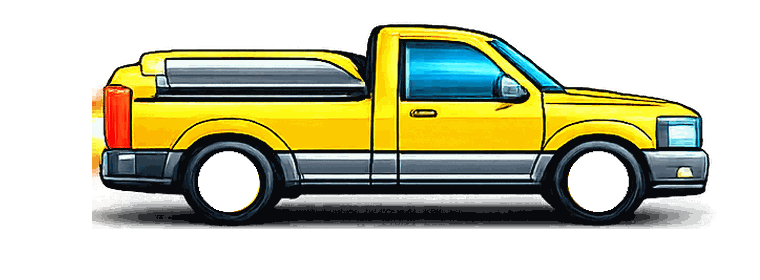
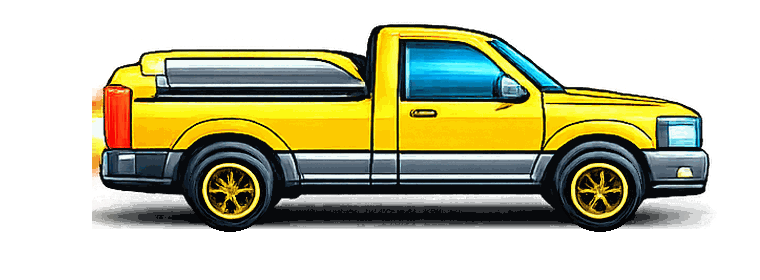
Add files via upload

Changed region(s): [[0.7263, 0.5143, 0.8474, 0.8286], [0.2421, 0.5429, 0.3632, 0.8286]]

diff --git a/boonjump/index.html b/boonjump/index.html
@@ -4,10 +4,10 @@
   <meta charset="utf-8">
   <meta name="viewport" content="width=device-width,initial-scale=1,viewport-fit=cover,maximum-scale=1,user-scalable=no">
   <meta name="theme-color" content="#071222">
-  <meta name="description" content="ASOBooNのミニゲーム ブーンジャンプ Ver.2.1.2">
+  <meta name="description" content="ASOBooNのミニゲーム ブーンジャンプ Ver.2.1.3">
   <meta name="robots" content="noindex,nofollow">
-  <meta name="boonjump-build" content="2026-08-06-ten-draw-tach-v3">
-  <title>ブーンジャンプ Ver.2.1.2｜ASOBooN</title>
+  <meta name="boonjump-build" content="2026-08-06-wheel-tach-secret-v4">
+  <title>ブーンジャンプ Ver.2.1.3｜ASOBooN</title>
   <style>
 :root{
   --yellow:#ffd83d;--yellow-hi:#fff27a;--yellow-sh:#a96900;
@@ -40,7 +40,7 @@ main{position:relative;z-index:2;width:min(100%,760px);margin:0 auto;padding:8px
 .hero-card{text-align:center}.eyebrow{position:relative;margin:0 0 6px;color:var(--cyan);font-size:.73rem;font-weight:1000;letter-spacing:.08em}.hero-card h1{position:relative;margin:0;font-size:clamp(2.7rem,13vw,5rem);line-height:.82;letter-spacing:-.08em;text-shadow:0 6px 0 rgba(0,0,0,.24)}.hero-card h1 span{color:var(--yellow)}.lead{position:relative;margin:12px 0 15px;color:#e2e8f0;font-size:clamp(.91rem,3.7vw,1.08rem);font-weight:900;line-height:1.45}
 .current-car{position:relative;margin:0 0 14px;padding:9px 10px;display:grid;grid-template-columns:minmax(108px,42%) minmax(0,1fr);align-items:center;gap:9px;border:1px solid var(--line);border-radius:20px;background:rgba(255,255,255,.07);text-align:left}.current-car-copy small{display:block;color:var(--mute);font-size:.58rem;font-weight:1000}.current-car-copy strong{display:block;margin-top:2px;font-size:clamp(.86rem,3.3vw,1.06rem);line-height:1.15}.current-car-copy span{display:block;margin-top:4px;color:var(--dim);font-size:.67rem;font-weight:800;line-height:1.25}.current-car-copy em{display:inline-block;margin-top:5px;padding:3px 7px;border-radius:999px;background:rgba(255,216,61,.13);color:var(--yellow);font-size:.58rem;font-style:normal;font-weight:1000}
 .primary,.tap-button{position:relative;width:100%;min-height:62px;border:0;border-radius:19px;color:var(--ink);background:linear-gradient(180deg,var(--yellow-hi),var(--yellow));box-shadow:0 7px 0 var(--yellow-sh),0 13px 26px rgba(0,0,0,.28);font-weight:1000}.primary::after,.tap-button::after{content:"";position:absolute;inset:6px;border:2px solid rgba(255,255,255,.48);border-radius:14px;pointer-events:none}.primary:active,.tap-button:active{transform:translateY(4px);box-shadow:0 3px 0 var(--yellow-sh),0 8px 17px rgba(0,0,0,.25)}.primary.huge{min-height:68px;font-size:1.17rem}.secondary{min-height:48px;padding:8px;border:1px solid var(--line);border-radius:15px;color:#fff;background:rgba(255,255,255,.085);box-shadow:0 4px 0 rgba(0,0,0,.25);font-size:.77rem;font-weight:1000}.secondary:active{transform:translateY(2px);box-shadow:0 2px 0 rgba(0,0,0,.25)}
-.home-actions{position:relative;display:grid;gap:7px;margin-top:12px}.home-actions.four{grid-template-columns:repeat(4,1fr)}.home-stats{position:relative;display:grid;grid-template-columns:repeat(3,1fr);gap:7px;margin-top:13px}.home-stats div{padding:7px 3px;border-radius:13px;border:1px solid rgba(255,255,255,.09);background:rgba(255,255,255,.05)}.home-stats small{display:block;color:var(--mute);font-size:.53rem;font-weight:1000}.home-stats strong{display:block;margin-top:2px;font-size:.82rem}.privacy,.fineprint{position:relative;margin:11px 0 0;color:var(--mute);font-size:.62rem;font-weight:800;line-height:1.45}
+.home-actions{position:relative;display:grid;gap:7px;margin-top:12px}.home-actions.four{grid-template-columns:repeat(4,1fr)}.home-actions.three{grid-template-columns:repeat(3,1fr)}.home-stats{position:relative;display:grid;grid-template-columns:repeat(3,1fr);gap:7px;margin-top:13px}.home-stats div{padding:7px 3px;border-radius:13px;border:1px solid rgba(255,255,255,.09);background:rgba(255,255,255,.05)}.home-stats small{display:block;color:var(--mute);font-size:.53rem;font-weight:1000}.home-stats strong{display:block;margin-top:2px;font-size:.82rem}.privacy,.fineprint{position:relative;margin:11px 0 0;color:var(--mute);font-size:.62rem;font-weight:800;line-height:1.45}
 .panel-head{position:relative;display:flex;align-items:center;gap:10px;margin-bottom:13px}.panel-head .icon-button{flex:0 0 44px;width:44px;height:44px;border:1px solid var(--line);border-radius:14px;background:rgba(255,255,255,.08);color:#fff;font-size:1.55rem;font-weight:1000}.panel-head small{display:block;color:var(--cyan);font-size:.58rem;font-weight:1000;letter-spacing:.12em}.panel-head h2{margin:1px 0 0;font-size:1.28rem}
 /* Vehicle renderer */
 .vehicle-slot,.gacha-stage,.vehicle-runway,.result-vehicle{position:relative;min-height:92px;display:grid;place-items:center;overflow:hidden}.vehicle-slot{min-height:78px}.vehicle-runway{min-height:122px;border-radius:17px;background:linear-gradient(180deg,#67caff 0 60%,#74b85d 60% 69%,#465168 69% 100%)}.vehicle-runway::after{content:"";position:absolute;left:0;right:0;bottom:16%;height:5px;background:repeating-linear-gradient(90deg,transparent 0 22px,#fff 22px 48px,transparent 48px 72px);opacity:.9}.result-vehicle{min-height:105px}.vehicle{position:relative;width:min(100%,350px);height:110px;z-index:2;filter:drop-shadow(0 12px 9px rgba(0,0,0,.35));transform-origin:50% 78%}.vehicle.compact{height:82px;transform:scale(.9)}.vehicle img{position:absolute;inset:0;width:100%;height:100%;object-fit:contain;pointer-events:none}.vehicle .part-shadow{z-index:0}.vehicle .part-body{z-index:2}.vehicle .part-rear,.vehicle .part-front{z-index:3}.vehicle .part-rear,.vehicle .part-front{inset:auto;height:auto;transform:translate(-50%,-50%);filter:drop-shadow(0 3px 2px rgba(0,0,0,.28))}.vehicle .part-boost{z-index:1;opacity:0}.vehicle.boosting .part-boost{opacity:1;animation:flamePulse .12s ease-in-out infinite alternate}.vehicle.revving{animation:vehicleRev .18s ease-in-out infinite alternate}.vehicle.hit{animation:vehicleHit .28s cubic-bezier(.15,.8,.28,1)}
@@ -63,7 +63,7 @@ main{position:relative;z-index:2;width:min(100%,760px);margin:0 auto;padding:8px
 /* Effects and safety */
 .judge-burst{position:fixed;z-index:90;left:50%;top:48%;transform:translate(-50%,-50%) scale(.7);width:min(92vw,480px);pointer-events:none;text-align:center;opacity:0}.judge-burst small{display:block;color:#fff0a3;font-size:1rem;font-weight:1000}.judge-burst strong{display:block;font-size:clamp(2.4rem,12vw,5rem);line-height:.9;font-weight:1000;font-style:italic;text-shadow:0 5px 0 rgba(0,0,0,.28),0 0 28px rgba(255,216,61,.65)}.judge-burst.show{animation:judgeBurst .72s ease-out}.super-overlay{position:fixed;z-index:120;inset:0;display:grid;place-items:center;background:radial-gradient(circle,rgba(255,255,255,.97) 0 7%,rgba(255,234,104,.86) 8% 28%,rgba(255,121,0,.42) 29% 58%,rgba(7,18,34,.88) 78%);opacity:0;visibility:hidden;pointer-events:none}.super-overlay.show{visibility:visible;pointer-events:auto;animation:superFlash .64s ease-out}.super-overlay div{text-align:center;transform:rotate(-4deg)}.super-overlay small{display:block;color:#5b3300;font-size:.9rem;font-weight:1000}.super-overlay strong{display:block;color:#5b2500;font-size:clamp(2.8rem,14vw,5.7rem);line-height:.84;font-style:italic;text-shadow:0 3px #fff,0 8px 0 rgba(120,60,0,.25)}.input-shield{position:fixed;z-index:115;inset:0;display:none;pointer-events:auto;background:transparent}.input-shield.active{display:block}.trophy-toast{position:fixed;z-index:150;left:50%;top:max(12px,env(safe-area-inset-top));width:min(calc(100% - 24px),420px);padding:10px 12px;display:grid;grid-template-columns:42px 1fr;align-items:center;gap:9px;border:2px solid #fff;border-radius:17px;background:linear-gradient(135deg,#25165d,#8b55ff);box-shadow:0 15px 35px rgba(0,0,0,.4);transform:translate(-50%,-150%);transition:transform .35s ease;pointer-events:none}.trophy-toast.show{transform:translate(-50%,0)}.trophy-toast>span{font-size:1.7rem}.trophy-toast small{display:block;color:#eadfff;font-size:.53rem;font-weight:1000}.trophy-toast strong{display:block;font-size:.77rem}.orientation-note{display:none;position:fixed;z-index:200;inset:0;place-items:center;padding:25px;background:#071222;color:#fff;text-align:center;font-weight:1000}
 @keyframes vehicleRev{to{transform:translateY(2px) scale(1.015)}}@keyframes vehicleHit{35%{transform:translateY(5px) scale(.97)}100%{transform:none}}@keyframes flamePulse{to{transform:scaleX(1.13);filter:brightness(1.25)}}@keyframes gachaShake{25%{transform:translateX(-2px)}75%{transform:translateX(2px)}}@keyframes gachaSlide{from{transform:translateX(35px);opacity:.4}to{transform:none;opacity:1}}@keyframes spin{to{transform:rotate(1turn)}}@keyframes boostReady{to{transform:translateX(-50%) scale(1.035)}}@keyframes recordPop{from{transform:scale(.4) rotate(-5deg)}70%{transform:scale(1.15) rotate(2deg)}to{transform:none}}@keyframes judgeBurst{0%{opacity:0;transform:translate(-50%,-50%) scale(.5)}20%{opacity:1;transform:translate(-50%,-50%) scale(1.14)}75%{opacity:1;transform:translate(-50%,-50%) scale(1)}100%{opacity:0;transform:translate(-50%,-60%) scale(.94)}}@keyframes superFlash{0%{opacity:0}15%{opacity:1}76%{opacity:1}100%{opacity:0}}
-@media(max-width:360px){main{padding-inline:8px}.hero-card,.panel,.result-card{padding:14px}.home-actions.four{grid-template-columns:repeat(2,1fr)}.current-car{grid-template-columns:104px minmax(0,1fr)}.car-grid{gap:6px}.car-card{padding:6px}.vehicle{width:290px}.progress-step em{font-size:.43rem}.boost-button{width:82%}}
+@media(max-width:360px){main{padding-inline:8px}.hero-card,.panel,.result-card{padding:14px}.home-actions.four{grid-template-columns:repeat(2,1fr)}.home-actions.three{grid-template-columns:repeat(3,1fr)}.current-car{grid-template-columns:104px minmax(0,1fr)}.car-grid{gap:6px}.car-card{padding:6px}.vehicle{width:290px}.progress-step em{font-size:.43rem}.boost-button{width:82%}}
 @media(max-height:650px){.screen{align-items:start}.hero-card,.panel,.result-card{margin-top:2px}.hero-card h1{font-size:2.75rem}.lead{margin:7px 0}.current-car{margin-bottom:9px}.vehicle-slot{min-height:68px}.home-stats{margin-top:9px}.privacy{margin-top:7px}.vehicle-runway{min-height:100px}.tap-button{min-height:60px}.flight-screen canvas{height:calc(100dvh - 55px)}}
 @media(orientation:landscape) and (max-height:500px){.orientation-note{display:grid}}
 @media(prefers-reduced-motion:reduce){*,*::before,*::after{animation-duration:.01ms!important;animation-iteration-count:1!important;transition-duration:.01ms!important;scroll-behavior:auto!important}.vehicle.revving{animation:none}.boost-button.ready{animation:none}.super-overlay{background:rgba(7,18,34,.92)}}
@@ -73,7 +73,7 @@ main{position:relative;z-index:2;width:min(100%,760px);margin:0 auto;padding:8px
 
 /* V2.1 — three distinct actions and machine-specific handling */
 .ticket-pill{min-width:74px;padding:6px 8px;border:1px solid rgba(255,216,61,.35);border-radius:999px;background:rgba(255,216,61,.1);text-align:center}.ticket-pill small{display:block;color:#ffe98c;font-size:.5rem;font-weight:1000}.ticket-pill b{display:block;color:#fff;font-size:.8rem;font-variant-numeric:tabular-nums}.gacha-ticket-status{position:relative;margin:11px 0 0;padding:8px 10px;border:1px solid rgba(255,216,61,.35);border-radius:13px;background:rgba(255,216,61,.09);color:var(--yellow);font-size:.72rem;font-weight:1000}.secondary.no-ticket{opacity:.72;border-color:rgba(255,255,255,.09)}
-.rpm-meter,.turbo-meter{padding:9px 7px 4px}.tach-caption,.turbo-labels{display:flex;align-items:center;justify-content:space-between;color:var(--mute);font-size:.51rem;font-weight:1000}.tach-caption b,.turbo-labels b{color:#fff;font-size:.67rem}.tach-dial{position:relative;width:min(100%,282px);height:154px;margin:3px auto 0;overflow:hidden}.tach-arc{position:absolute;left:50%;bottom:-113px;width:246px;height:246px;transform:translateX(-50%);border:15px solid #26344b;border-radius:50%;box-shadow:inset 0 0 0 3px #101827,0 0 20px rgba(73,183,255,.12)}.tach-arc::before{content:"";position:absolute;inset:-15px;border-radius:50%;background:conic-gradient(from 220deg,transparent 0 7%,#49b7ff 7% 27%,#3ddc84 27% 33%,#ffd83d 33% 37%,#ff8a00 37% 40%,#ff4d4d 40% 43%,transparent 43% 100%);mask:radial-gradient(circle,transparent 0 42%,#000 43% 54%,transparent 55%);-webkit-mask:radial-gradient(circle,transparent 0 42%,#000 43% 54%,transparent 55%)}.tach-arc::after{content:"";position:absolute;inset:-9px;border-radius:50%;background:repeating-conic-gradient(from 198deg,rgba(255,255,255,.95) 0 1deg,transparent 1deg 4deg);mask:radial-gradient(circle,transparent 0 55%,#000 56% 61%,transparent 62%);-webkit-mask:radial-gradient(circle,transparent 0 55%,#000 56% 61%,transparent 62%);opacity:.8}.tach-scale span{position:absolute;z-index:3;left:50%;bottom:20px;width:18px;margin-left:-9px;color:#dce8f6;font-size:.55rem;font-weight:1000;text-align:center;transform-origin:9px 0;transform:rotate(calc(-72deg + var(--i)*16deg)) translateY(-89px) rotate(calc(72deg - var(--i)*16deg));text-shadow:0 2px 4px #000}.tach-unit-label{position:absolute;z-index:3;left:50%;bottom:39px;transform:translateX(-50%);color:#8ca1b8;font-size:.48rem;font-weight:1000;letter-spacing:.08em}.tach-redline{position:absolute;left:50%;bottom:18px;width:89px;height:4px;transform-origin:0 50%;transform:rotate(42deg);border-radius:999px;background:#ff544f;box-shadow:0 0 10px #ff4d4d}.tach-redline::after{content:"";position:absolute;right:-5px;top:-6px;width:15px;height:15px;border:3px solid #fff;border-radius:50%;background:#ff4d4d;box-shadow:0 0 15px #ff4d4d}.tach-redline span{position:absolute;right:-50px;top:-31px;padding:3px 6px;border:2px solid #fff;border-radius:999px;background:#ff4d4d;color:#fff;font-size:.54rem;font-weight:1000;transform:rotate(-42deg);text-shadow:0 2px 5px #000;box-shadow:0 0 13px rgba(255,77,77,.8)}.tach-needle{position:absolute;z-index:4;left:50%;bottom:19px;width:96px;height:5px;transform-origin:0 50%;transform:rotate(-72deg);border-radius:999px;background:linear-gradient(90deg,#fff,#ffd83d);box-shadow:0 0 13px #fff}.tach-needle::after{content:"";position:absolute;right:-5px;top:-4px;border-left:13px solid var(--yellow);border-top:6px solid transparent;border-bottom:6px solid transparent}.tach-critical-label{position:absolute;z-index:6;right:3px;top:18px;padding:5px 8px;border:2px solid #fff;border-radius:11px;background:linear-gradient(180deg,#ff835c,#ff3f48);color:#fff;font-size:.55rem;font-weight:1000;line-height:1;text-align:center;box-shadow:0 0 17px rgba(255,77,77,.75)}.tach-critical-label small{display:block;margin-top:3px;color:#fff5c6;font-size:.42rem}.tach-hub{position:absolute;z-index:5;left:50%;bottom:8px;width:25px;height:25px;transform:translateX(-50%);border:5px solid #fff;border-radius:50%;background:#19253a;box-shadow:0 0 12px rgba(255,255,255,.55)}.rpm-number,.turbo-number{text-align:center;margin-top:-2px}.rpm-number span,.turbo-number span{font-size:1.38rem;font-weight:1000;font-variant-numeric:tabular-nums}.rpm-number small,.turbo-number small{margin-left:4px;color:var(--mute);font-size:.56rem;font-weight:1000}.machine-control-note{width:max-content;max-width:100%;margin:4px auto 0;padding:4px 9px;border-radius:999px;background:rgba(73,183,255,.1);color:var(--cyan);font-size:.57rem;font-weight:1000}
+.rpm-meter,.turbo-meter{padding:9px 7px 4px}.tach-caption,.turbo-labels{display:flex;align-items:center;justify-content:space-between;color:var(--mute);font-size:.51rem;font-weight:1000}.tach-caption b,.turbo-labels b{color:#fff;font-size:.67rem}.tach-dial{position:relative;width:min(100%,282px);height:154px;margin:3px auto 0;overflow:hidden}.tach-arc{position:absolute;left:50%;bottom:-113px;width:246px;height:246px;transform:translateX(-50%);border:15px solid #26344b;border-radius:50%;box-shadow:inset 0 0 0 3px #101827,0 0 20px rgba(73,183,255,.12)}.tach-arc::before{content:"";position:absolute;inset:-15px;border-radius:50%;background:conic-gradient(from 220deg,transparent 0 7%,#49b7ff 7% 27%,#3ddc84 27% 33%,#ffd83d 33% 37%,#ff8a00 37% 40%,#ff4d4d 40% 43%,transparent 43% 100%);mask:radial-gradient(circle,transparent 0 42%,#000 43% 54%,transparent 55%);-webkit-mask:radial-gradient(circle,transparent 0 42%,#000 43% 54%,transparent 55%)}.tach-arc::after{content:"";position:absolute;inset:-9px;border-radius:50%;background:repeating-conic-gradient(from 198deg,rgba(255,255,255,.95) 0 1deg,transparent 1deg 4deg);mask:radial-gradient(circle,transparent 0 55%,#000 56% 61%,transparent 62%);-webkit-mask:radial-gradient(circle,transparent 0 55%,#000 56% 61%,transparent 62%);opacity:.8}.tach-scale span{position:absolute;z-index:3;left:50%;bottom:20px;width:18px;margin-left:-9px;color:#dce8f6;font-size:.55rem;font-weight:1000;text-align:center;transform-origin:9px 0;transform:rotate(calc(-72deg + var(--i)*16deg)) translateY(-89px) rotate(calc(72deg - var(--i)*16deg));text-shadow:0 2px 4px #000}.tach-unit-label{position:absolute;z-index:3;left:50%;bottom:39px;transform:translateX(-50%);color:#8ca1b8;font-size:.48rem;font-weight:1000;letter-spacing:.08em}.tach-redline{position:absolute;left:50%;bottom:18px;width:89px;height:4px;transform-origin:0 50%;transform:rotate(-48deg);border-radius:999px;background:#ff544f;box-shadow:0 0 10px #ff4d4d}.tach-redline::after{content:"";position:absolute;right:-5px;top:-6px;width:15px;height:15px;border:3px solid #fff;border-radius:50%;background:#ff4d4d;box-shadow:0 0 15px #ff4d4d}.tach-redline span{position:absolute;right:-50px;top:-31px;padding:3px 6px;border:2px solid #fff;border-radius:999px;background:#ff4d4d;color:#fff;font-size:.54rem;font-weight:1000;transform:rotate(48deg);text-shadow:0 2px 5px #000;box-shadow:0 0 13px rgba(255,77,77,.8)}.tach-needle{position:absolute;z-index:4;left:50%;bottom:19px;width:96px;height:5px;transform-origin:0 50%;transform:rotate(-162deg);border-radius:999px;background:linear-gradient(90deg,#fff,#ffd83d);box-shadow:0 0 13px #fff}.tach-needle::after{content:"";position:absolute;right:-5px;top:-4px;border-left:13px solid var(--yellow);border-top:6px solid transparent;border-bottom:6px solid transparent}.tach-critical-label{position:absolute;z-index:6;right:3px;top:18px;padding:5px 8px;border:2px solid #fff;border-radius:11px;background:linear-gradient(180deg,#ff835c,#ff3f48);color:#fff;font-size:.55rem;font-weight:1000;line-height:1;text-align:center;box-shadow:0 0 17px rgba(255,77,77,.75)}.tach-critical-label small{display:block;margin-top:3px;color:#fff5c6;font-size:.42rem}.tach-hub{position:absolute;z-index:5;left:50%;bottom:8px;width:25px;height:25px;transform:translateX(-50%);border:5px solid #fff;border-radius:50%;background:#19253a;box-shadow:0 0 12px rgba(255,255,255,.55)}.rpm-number,.turbo-number{text-align:center;margin-top:-2px}.rpm-number span,.turbo-number span{font-size:1.38rem;font-weight:1000;font-variant-numeric:tabular-nums}.rpm-number small,.turbo-number small{margin-left:4px;color:var(--mute);font-size:.56rem;font-weight:1000}.machine-control-note{width:max-content;max-width:100%;margin:4px auto 0;padding:4px 9px;border-radius:999px;background:rgba(73,183,255,.1);color:var(--cyan);font-size:.57rem;font-weight:1000}
 .turbo-track{position:relative;height:60px;margin:14px 3px 7px;border:3px solid #172238;border-radius:18px;background:linear-gradient(180deg,#25334c,#121b2d);overflow:hidden;box-shadow:inset 0 3px 9px rgba(0,0,0,.45)}.turbo-track::before{content:"";position:absolute;inset:0;background:repeating-linear-gradient(90deg,transparent 0 9%,rgba(255,255,255,.055) 9% 10%)}.turbo-zone{position:absolute;top:7px;bottom:7px;left:50%;transform:translateX(-50%);border-radius:9px}.turbo-good{width:58%;background:rgba(73,183,255,.18)}.turbo-great{width:36%;background:rgba(61,220,132,.28)}.turbo-critical{width:19%;background:rgba(255,138,0,.48);box-shadow:0 0 13px rgba(255,138,0,.3)}.turbo-super{width:8%;background:linear-gradient(180deg,#fff9a8,#ffd83d);box-shadow:0 0 16px rgba(255,216,61,.68)}.turbo-center-line{position:absolute;z-index:3;left:50%;top:1px;bottom:1px;width:3px;transform:translateX(-50%);background:#fff;box-shadow:0 0 10px #fff}.turbo-cursor{position:absolute;z-index:5;left:0;top:50%;width:27px;height:44px;transform:translate(-50%,-50%);border:3px solid #fff;border-radius:9px;background:linear-gradient(180deg,#89f5ff,#229be8);box-shadow:0 0 16px rgba(73,183,255,.65)}.turbo-cursor i{position:absolute;left:50%;top:-11px;transform:translateX(-50%);border-left:7px solid transparent;border-right:7px solid transparent;border-top:9px solid #fff}
 .nitro-lane{--orb-size:74px;--target-size:92px;position:absolute;z-index:7;right:13px;top:76px;bottom:121px;width:104px;border:2px solid rgba(255,255,255,.2);border-radius:999px;background:linear-gradient(180deg,rgba(7,18,34,.42),rgba(7,18,34,.72));box-shadow:inset 0 0 22px rgba(0,0,0,.35);pointer-events:none;overflow:hidden}.nitro-guide{position:absolute;z-index:4;top:10px;left:50%;transform:translateX(-50%);color:#dffcff;font-size:.48rem;font-weight:1000;white-space:nowrap}.nitro-target{position:absolute;z-index:2;left:50%;top:76%;width:var(--target-size);height:var(--target-size);transform:translate(-50%,-50%);display:grid;place-items:center;border:7px solid #fff36b;border-radius:50%;background:rgba(255,216,61,.12);box-shadow:0 0 24px rgba(255,216,61,.78),inset 0 0 16px rgba(255,216,61,.35)}.nitro-target span{padding:2px 5px;border-radius:999px;background:#071222;color:#fff36b;font-size:.48rem;font-weight:1000}.nitro-orb{position:absolute;z-index:3;left:50%;top:0;width:var(--orb-size);height:var(--orb-size);transform:translate(-50%,-50%);border:5px solid #fff;border-radius:50%;background:radial-gradient(circle at 36% 30%,#fff 0 8%,#8df7ff 16%,#49b7ff 46%,#713cff 75%,#190d4a);box-shadow:0 0 25px #49b7ff,0 0 46px rgba(113,60,255,.55)}.nitro-lane.ready .nitro-target{animation:nitroTargetPulse .22s ease-in-out infinite alternate}.nitro-lane.used{opacity:.28}.boost-button{bottom:max(25px,env(safe-area-inset-bottom));min-height:68px;width:min(70%,300px)}.boost-call{bottom:101px}.ticket-earned{position:relative;margin:8px 0;padding:9px 10px;display:grid;grid-template-columns:34px 1fr;align-items:center;border:1px solid rgba(255,216,61,.4);border-radius:14px;background:linear-gradient(135deg,rgba(255,216,61,.16),rgba(255,138,0,.08));text-align:left}.ticket-earned>span{grid-row:1/3;font-size:1.7rem}.ticket-earned b{color:var(--yellow);font-size:.76rem}.ticket-earned small{color:var(--dim);font-size:.57rem;font-weight:900}@keyframes nitroTargetPulse{to{transform:translate(-50%,-50%) scale(1.08);box-shadow:0 0 36px rgba(255,216,61,1),inset 0 0 20px rgba(255,216,61,.5)}}
 .current-car .vehicle-slot{overflow:visible}.current-car .vehicle{width:150px}.current-car .vehicle.compact{transform:scale(.82)}
@@ -117,11 +117,10 @@ main{position:relative;z-index:2;width:min(100%,760px);margin:0 auto;padding:8px
         </div>
 
         <button class="primary huge" id="playButton" type="button">このマシンで飛ぶ</button>
-        <div class="home-actions four">
+        <div class="home-actions three">
           <button class="secondary" id="gachaButton" type="button">ガチャ 🎟1</button>
           <button class="secondary" id="garageButton" type="button">車庫</button>
           <button class="secondary" id="recordsButton" type="button">記録</button>
-          <button class="secondary" id="howButton" type="button">遊び方</button>
         </div>
 
         <div class="home-stats">
@@ -181,24 +180,6 @@ main{position:relative;z-index:2;width:min(100%,760px);margin:0 auto;padding:8px
         </div>
         <div id="machineRecords"></div>
         <div id="trophyRecords" hidden></div>
-      </div>
-    </section>
-
-    <section class="screen" id="howScreen" aria-labelledby="howTitle">
-      <div class="panel">
-        <div class="panel-head">
-          <button class="icon-button" data-back="home" type="button" aria-label="戻る">‹</button>
-          <div><small>HOW TO PLAY</small><h2 id="howTitle">3回タップするだけ</h2></div>
-        </div>
-        <ol class="how-list">
-          <li><span>1</span><div><b>アクセル</b><p>タコメーターの針をレッドゾーンで止める！</p></div></li>
-          <li><span>2</span><div><b>ターボ</b><p>流れるゲージを中央で止める！</p></div></li>
-          <li><span>3</span><div><b>ニトロ</b><p>飛行中、流れる丸がリングに重なったらタップ！</p></div></li>
-        </ol>
-        <div class="judge-guide">
-          <span class="j-super">SUPER</span><span class="j-critical">CRITICAL</span><span class="j-great">GREAT</span><span class="j-good">GOOD</span>
-        </div>
-        <button class="primary" id="howPlayButton" type="button">やってみる</button>
       </div>
     </section>
 
@@ -294,8 +275,8 @@ main{position:relative;z-index:2;width:min(100%,760px);margin:0 auto;padding:8px
 (() => {
   'use strict';
 
-  const APP_VERSION = '2.1.2';
-  const BUILD = '2026-08-06-ten-draw-tach-v3';
+  const APP_VERSION = '2.1.3';
+  const BUILD = '2026-08-06-wheel-tach-secret-v4';
   const SCHEMA = 3;
   const STORE_KEY = 'asoboonBoonjump.v2';
   const BACKUP_KEY = `${STORE_KEY}.backup`;
@@ -346,7 +327,7 @@ main{position:relative;z-index:2;width:min(100%,760px);margin:0 auto;padding:8px
 
   const $ = id => document.getElementById(id);
   const screens = {
-    home:$('homeScreen'),gacha:$('gachaScreen'),garage:$('garageScreen'),records:$('recordsScreen'),how:$('howScreen'),
+    home:$('homeScreen'),gacha:$('gachaScreen'),garage:$('garageScreen'),records:$('recordsScreen'),
     game:$('gameScreen'),flight:$('flightScreen'),result:$('resultScreen')
   };
   const el = {
@@ -497,27 +478,12 @@ main{position:relative;z-index:2;width:min(100%,760px);margin:0 auto;padding:8px
     const next=()=>{if(index>=candidates.length){img.remove();return;}img.src=candidates[index++];};img.addEventListener('error',next);next();return img;
   };
   const fallbackMarkup=()=>'<div class="vehicle-fallback"><i class="body"></i><i class="wheel rear"></i><i class="wheel front"></i><i class="flame"></i></div>';
-  const VEHICLE_LAYOUT={
-    default:{rear:{left:'24.5%',top:'63%',width:'17.5%'},front:{left:'76.5%',top:'63%',width:'17.5%'}},
-    boon:{rear:{left:'25%',top:'64%',width:'17.5%'},front:{left:'78%',top:'64%',width:'17.5%'}},
-    wagon:{rear:{left:'24%',top:'64%',width:'18%'},front:{left:'73%',top:'64%',width:'18%'}},
-    buggy:{rear:{left:'23%',top:'61%',width:'19%'},front:{left:'74%',top:'61%',width:'18.5%'}},
-    bike:{rear:{left:'15.5%',top:'64%',width:'13.5%'},front:{left:'79%',top:'63%',width:'13.5%'}},
-    sport:{rear:{left:'24.5%',top:'62%',width:'17.8%'},front:{left:'74.5%',top:'62%',width:'17.5%'}},
-    ssr:{rear:{left:'5.5%',top:'59%',width:'21%'},front:{left:'72.5%',top:'60%',width:'14.5%'}},
-    princess:{rear:{left:'23.5%',top:'63%',width:'16.5%'},front:{left:'72%',top:'63%',width:'16.5%'}}
-  };
-  const stylePart=(node,style)=>{if(!node||!style)return;node.style.inset='auto';Object.entries(style).forEach(([k,v])=>node.style[k]=v);node.style.height='auto';node.style.transform='translate(-50%,-50%)';};
-  const applyVehicleLayout=(wrap,carId)=>{const layout={...VEHICLE_LAYOUT.default,...(VEHICLE_LAYOUT[carId]||{})};stylePart(wrap.querySelector('.part-rear'),layout.rear);stylePart(wrap.querySelector('.part-front'),layout.front);};
   const renderVehicle=(target,car,{compact=false,boosting=false,revving=false}={})=>{
     target.innerHTML='';target.dataset.car=car.id;
     const wrap=document.createElement('div');wrap.className=`vehicle${compact?' compact':''}${boosting?' boosting':''}${revving?' revving':''}`;wrap.dataset.car=car.id;wrap.innerHTML=fallbackMarkup();
-    if(car.id!=='secret'){
-      const fallback=wrap.querySelector('.vehicle-fallback');
-      const body=makeAssetImage(car,'body','part-body');body.addEventListener('load',()=>{fallback.style.opacity='.05';});
-      wrap.append(makeAssetImage(car,'shadow','part-shadow'),makeAssetImage(car,'boost','part-boost'),body,makeAssetImage(car,'rear','part-rear'),makeAssetImage(car,'front','part-front'));
-      applyVehicleLayout(wrap,car.id);
-    }
+    const fallback=wrap.querySelector('.vehicle-fallback');
+    const body=makeAssetImage(car,'body','part-body');body.addEventListener('load',()=>{fallback.style.opacity='.02';});
+    wrap.append(makeAssetImage(car,'shadow','part-shadow'),makeAssetImage(car,'boost','part-boost'),body);
     target.appendChild(wrap);return wrap;
   };
 
@@ -592,10 +558,11 @@ main{position:relative;z-index:2;width:min(100%,760px);margin:0 auto;padding:8px
   const configureProgress=(activeIndex,judgments=[])=>{[el.progressStart,el.progressTurbo,el.progressNitro].forEach((item,i)=>{item.className='progress-step';const judge=judgments[i];item.querySelector('em').textContent=judge?JUDGE_SHORT[judge]:'---';if(judge){item.classList.add('done');if(judge==='SUPER')item.classList.add('super');}else if(i===activeIndex)item.classList.add('active');});};
   const setGameVehicle=(options={})=>renderVehicle(el.gameVehicle,currentCar,options);
   const showJudge=(title,judge,index)=>{el.judgeBurst.querySelector('small').textContent=title;el.judgeBurst.querySelector('strong').textContent=JUDGE_LABEL[judge];el.judgeBurst.classList.remove('show');void el.judgeBurst.offsetWidth;el.judgeBurst.classList.add('show');Sound.judge(judge,index);const vehicle=el.gameVehicle.querySelector('.vehicle');if(vehicle){vehicle.classList.remove('hit');void vehicle.offsetWidth;vehicle.classList.add('hit');}if(judge==='SUPER'){setShield(true);el.superOverlay.classList.remove('show');void el.superOverlay.offsetWidth;el.superOverlay.classList.add('show');vibrate([50,20,90,25,130]);schedule(()=>{el.superOverlay.classList.remove('show');},620);}else if(judge==='CRITICAL')vibrate([35,18,55]);else vibrate(judge==='GREAT'?30:judge==='GOOD'?20:12);};
-  const setTachTarget=()=>{const cfg=currentCar.control.accel,angle=-72+cfg.ideal*144;el.tachRedline.style.transform=`rotate(${angle}deg)`;const label=el.tachRedline.querySelector('span');if(label)label.style.transform=`rotate(${-angle}deg)`;el.accelProfile.textContent=`${cfg.label}｜14時方向の赤い目盛りを狙う`;};
+  const tachNeedleAngle=value=>-162+clamp(value,0,1)*144;
+  const setTachTarget=()=>{const cfg=currentCar.control.accel,angle=tachNeedleAngle(cfg.ideal);el.tachRedline.style.transform=`rotate(${angle}deg)`;const label=el.tachRedline.querySelector('span');if(label)label.style.transform=`rotate(${-angle}deg)`;el.accelProfile.textContent=`${cfg.label}｜14時方向の赤い目盛りを狙う`;};
   const setTurboZones=()=>{const cfg=currentCar.control.turbo;el.turboSuper.style.width=`${cfg.super*200}%`;el.turboCritical.style.width=`${cfg.critical*200}%`;el.turboGreat.style.width=`${cfg.great*200}%`;el.turboGood.style.width=`${cfg.good*200}%`;el.turboProfile.textContent=cfg.label;};
   const startAttempt=()=>{if(!getRecord(currentCar.id).owned)return showGacha();clearRun();attempt={carId:currentCar.id,start:null,turbo:null,nitro:null,rpm:0,turboPosition:.5,startQuality:0,turboQuality:0,nitroQuality:0};phase='start';setNavigationLock(true);setShield(false);setGameVehicle({revving:true});configureProgress(0);el.phaseCount.textContent='1 / 3';el.phaseTag.textContent='PHASE 1';el.phaseTitle.textContent='アクセル';el.phaseHint.textContent='タコメーターの針を14時方向のレッドゾーンで止めろ！';el.rpmMeter.hidden=false;el.turboMeter.hidden=true;el.tap.querySelector('span').textContent='タップ！';el.tapSub.textContent='アクセルを決める';setTachTarget();showScreen('game');phaseStart=performance.now();phaseRAF=requestAnimationFrame(updateStartMeter);};
-  const updateStartMeter=now=>{if(phase!=='start')return;const cfg=currentCar.control.accel,elapsed=now-phaseStart;rpmValue=motionValue(cfg.mode,elapsed,cfg,cfg.ideal);const angle=-72+rpmValue*144;el.rpmNeedle.style.transform=`rotate(${angle}deg)`;el.rpmNumber.textContent=Math.round(rpmValue*9000).toLocaleString();phaseRAF=requestAnimationFrame(updateStartMeter);};
+  const updateStartMeter=now=>{if(phase!=='start')return;const cfg=currentCar.control.accel,elapsed=now-phaseStart;rpmValue=motionValue(cfg.mode,elapsed,cfg,cfg.ideal);const angle=tachNeedleAngle(rpmValue);el.rpmNeedle.style.transform=`rotate(${angle}deg)`;el.rpmNumber.textContent=Math.round(rpmValue*9000).toLocaleString();phaseRAF=requestAnimationFrame(updateStartMeter);};
   const lockStart=()=>{if(phase!=='start')return;cancelAnimationFrame(phaseRAF);phase='transition';setShield(true);const cfg=currentCar.control.accel,error=Math.abs(rpmValue-cfg.ideal),judge=judgeByThreshold(error,cfg);let q=qualityFromError(error,cfg,.18);if(currentCar.skill==='recovery'&&judge==='MISS')q=Math.max(q,.48);if(currentCar.skill==='powerStart'&&JUDGE_LEVEL[judge]>=3)q=Math.min(1.08,q+.08);attempt.rpm=rpmValue;attempt.start=judge;attempt.startQuality=q;setGameVehicle();showJudge('アクセル',judge,0);configureProgress(1,[judge]);schedule(startTurboPhase,reduceMotion?120:judge==='SUPER'?680:500);};
   const startTurboPhase=()=>{phase='turbo';setShield(false);el.superOverlay.classList.remove('show');el.phaseCount.textContent='2 / 3';el.phaseTag.textContent='PHASE 2';el.phaseTitle.textContent='ターボ';el.phaseHint.textContent='流れるゲージを中央で止めろ！';el.rpmMeter.hidden=true;el.turboMeter.hidden=false;el.tap.querySelector('span').textContent='タップ！';el.tapSub.textContent='ターボを決める';setTurboZones();phaseStart=performance.now();phaseRAF=requestAnimationFrame(updateTurboMeter);};
   const updateTurboMeter=now=>{if(phase!=='turbo')return;const cfg=currentCar.control.turbo,elapsed=now-phaseStart;turboValue=motionValue(cfg.mode,elapsed,cfg,.5);el.turboCursor.style.left=`${turboValue*100}%`;el.turboNumber.textContent=Math.round(Math.abs(turboValue-.5)*200);phaseRAF=requestAnimationFrame(updateTurboMeter);};
@@ -621,9 +588,9 @@ main{position:relative;z-index:2;width:min(100%,760px);margin:0 auto;padding:8px
   const canvasImages=new Map();
   const getCanvasImage=car=>{if(canvasImages.has(car.id))return canvasImages.get(car.id);const entry={img:null,loaded:false,failed:false,index:0};canvasImages.set(car.id,entry);const load=()=>{if(entry.index>=car.asset.length){entry.failed=true;return;}const img=new Image();img.onload=()=>{entry.img=img;entry.loaded=true;};img.onerror=()=>{entry.index++;load();};img.src=`${ASSET_ROOT}/${car.asset[entry.index]}-body.png`;};load();return entry;};
   const drawCar=car=>{const p=worldToScreen(flight.x,flight.y),angle=Math.atan2(flight.vy,Math.max(1,flight.vx)),scale=clamp(canvasMetrics.w/430,.82,1.18);ctx.save();ctx.translate(p.x,p.y);ctx.rotate(-angle*.38);ctx.scale(scale,scale);if(car.skill==='warp'){ctx.shadowColor=car.accent;ctx.shadowBlur=28;}if(car.skill==='star')drawPrincessWings();if(car.skill==='rocket')drawRocketPerson(car);else drawStandardCar(car);ctx.restore();};
-  const drawStandardCar=car=>{const boosted=flight.nitroUsed&&JUDGE_LEVEL[flight.nitroJudge]>=1;if(boosted){const flame=ctx.createLinearGradient(-90,0,-35,0);flame.addColorStop(0,'rgba(255,255,255,0)');flame.addColorStop(.35,'#ff4d35');flame.addColorStop(1,'#fff36b');ctx.fillStyle=flame;ctx.beginPath();ctx.moveTo(-88,-4);ctx.lineTo(-32,-15);ctx.lineTo(-32,13);ctx.closePath();ctx.fill();}const entry=getCanvasImage(car);if(entry.loaded&&entry.img){if(car.id==='bike'){ctx.fillStyle='#080d16';[-33,35].forEach(x=>{ctx.beginPath();ctx.arc(x,20,14,0,Math.PI*2);ctx.fill();});ctx.drawImage(entry.img,-75,-35,150,55);}else{ctx.fillStyle='#080d16';[-31,38].forEach(x=>{ctx.beginPath();ctx.arc(x,22,14,0,Math.PI*2);ctx.fill();});ctx.drawImage(entry.img,-78,-42,156,58);}return;}ctx.fillStyle=car.color;ctx.strokeStyle='#111a2b';ctx.lineWidth=4;if(car.id==='bike'){ctx.fillStyle='#080d16';[-34,36].forEach(x=>{ctx.beginPath();ctx.arc(x,20,14,0,Math.PI*2);ctx.fill();});ctx.fillStyle=car.color;ctx.beginPath();ctx.moveTo(-40,8);ctx.lineTo(-10,-16);ctx.lineTo(28,-10);ctx.lineTo(47,8);ctx.lineTo(20,11);ctx.lineTo(-15,8);ctx.closePath();ctx.fill();ctx.stroke();return;}ctx.beginPath();ctx.moveTo(-47,14);ctx.quadraticCurveTo(-44,-17,-14,-22);ctx.quadraticCurveTo(13,-39,39,-17);ctx.quadraticCurveTo(57,-10,60,12);ctx.lineTo(54,24);ctx.lineTo(-45,24);ctx.closePath();ctx.fill();ctx.stroke();ctx.fillStyle=car.accent;ctx.beginPath();ctx.moveTo(-11,-21);ctx.lineTo(5,-36);ctx.lineTo(27,-18);ctx.closePath();ctx.fill();ctx.fillStyle='#92ddff';ctx.beginPath();ctx.moveTo(-7,-20);ctx.lineTo(5,-32);ctx.lineTo(14,-20);ctx.closePath();ctx.fill();ctx.fillStyle='#080d16';[-27,36].forEach(x=>{ctx.beginPath();ctx.arc(x,23,14,0,Math.PI*2);ctx.fill();});};
+  const drawStandardCar=car=>{const boosted=flight.nitroUsed&&JUDGE_LEVEL[flight.nitroJudge]>=1;if(boosted){const flame=ctx.createLinearGradient(-90,0,-35,0);flame.addColorStop(0,'rgba(255,255,255,0)');flame.addColorStop(.35,'#ff4d35');flame.addColorStop(1,'#fff36b');ctx.fillStyle=flame;ctx.beginPath();ctx.moveTo(-88,-4);ctx.lineTo(-32,-15);ctx.lineTo(-32,13);ctx.closePath();ctx.fill();}const entry=getCanvasImage(car);if(entry.loaded&&entry.img){ctx.drawImage(entry.img,-82,-46,164,60);return;}ctx.fillStyle=car.color;ctx.strokeStyle='#111a2b';ctx.lineWidth=4;if(car.id==='bike'){ctx.fillStyle='#080d16';[-34,36].forEach(x=>{ctx.beginPath();ctx.arc(x,20,14,0,Math.PI*2);ctx.fill();});ctx.fillStyle=car.color;ctx.beginPath();ctx.moveTo(-40,8);ctx.lineTo(-10,-16);ctx.lineTo(28,-10);ctx.lineTo(47,8);ctx.lineTo(20,11);ctx.lineTo(-15,8);ctx.closePath();ctx.fill();ctx.stroke();return;}ctx.beginPath();ctx.moveTo(-47,14);ctx.quadraticCurveTo(-44,-17,-14,-22);ctx.quadraticCurveTo(13,-39,39,-17);ctx.quadraticCurveTo(57,-10,60,12);ctx.lineTo(54,24);ctx.lineTo(-45,24);ctx.closePath();ctx.fill();ctx.stroke();ctx.fillStyle=car.accent;ctx.beginPath();ctx.moveTo(-11,-21);ctx.lineTo(5,-36);ctx.lineTo(27,-18);ctx.closePath();ctx.fill();ctx.fillStyle='#92ddff';ctx.beginPath();ctx.moveTo(-7,-20);ctx.lineTo(5,-32);ctx.lineTo(14,-20);ctx.closePath();ctx.fill();ctx.fillStyle='#080d16';[-27,36].forEach(x=>{ctx.beginPath();ctx.arc(x,23,14,0,Math.PI*2);ctx.fill();});};
   const drawPrincessWings=()=>{const wins=[attempt.start,attempt.turbo,flight.nitroJudge].filter(j=>j==='SUPER').length;if(!wins)return;ctx.save();ctx.globalAlpha=.75+wins*.08;ctx.fillStyle='rgba(255,255,255,.82)';ctx.strokeStyle='#ffb5ec';ctx.lineWidth=2;const span=28+wins*12;ctx.beginPath();ctx.moveTo(-5,-8);ctx.quadraticCurveTo(-45,-42-span,-66-span,-3);ctx.quadraticCurveTo(-45,-20,-20,2);ctx.closePath();ctx.fill();ctx.stroke();ctx.beginPath();ctx.moveTo(10,-10);ctx.quadraticCurveTo(44,-48-span,75+span,-9);ctx.quadraticCurveTo(47,-18,24,4);ctx.closePath();ctx.fill();ctx.stroke();if(wins>=3){ctx.fillStyle='#ffd83d';ctx.beginPath();ctx.moveTo(-8,-43);ctx.lineTo(0,-58);ctx.lineTo(8,-43);ctx.lineTo(17,-54);ctx.lineTo(15,-34);ctx.lineTo(-15,-34);ctx.lineTo(-17,-54);ctx.closePath();ctx.fill();}ctx.restore();};
-  const drawRocketPerson=car=>{const boosted=flight.nitroUsed&&JUDGE_LEVEL[flight.nitroJudge]>=1;if(boosted){ctx.fillStyle='#ffef63';ctx.beginPath();ctx.moveTo(-85,0);ctx.lineTo(-34,-20);ctx.lineTo(-34,20);ctx.closePath();ctx.fill();ctx.fillStyle='#ff4b24';ctx.beginPath();ctx.moveTo(-70,0);ctx.lineTo(-30,-12);ctx.lineTo(-30,12);ctx.closePath();ctx.fill();}ctx.strokeStyle='#121a29';ctx.lineWidth=4;ctx.fillStyle=car.color;ctx.beginPath();ctx.ellipse(0,0,55,24,0,0,Math.PI*2);ctx.fill();ctx.stroke();ctx.fillStyle='#fff';ctx.beginPath();ctx.arc(22,-4,15,0,Math.PI*2);ctx.fill();ctx.stroke();ctx.fillStyle='#1c9be8';ctx.beginPath();ctx.arc(26,-6,8,0,Math.PI*2);ctx.fill();ctx.fillStyle='#ffef63';ctx.beginPath();ctx.moveTo(-20,-20);ctx.lineTo(-4,-42);ctx.lineTo(9,-19);ctx.closePath();ctx.fill();ctx.stroke();};
+  const drawRocketPerson=car=>{const entry=getCanvasImage(car);const boosted=flight.nitroUsed&&JUDGE_LEVEL[flight.nitroJudge]>=1;if(boosted){ctx.save();ctx.globalCompositeOperation='screen';ctx.fillStyle='#ffef63';ctx.beginPath();ctx.moveTo(-94,0);ctx.lineTo(-38,-22);ctx.lineTo(-38,22);ctx.closePath();ctx.fill();ctx.restore();}if(entry.loaded&&entry.img){ctx.drawImage(entry.img,-102,-58,204,75);return;}drawStandardCar(car);};
   const drawParticles=()=>{ctx.save();flight.particles.forEach(p=>{const s=worldToScreen(p.x,p.y);ctx.globalAlpha=clamp(p.life,0,1);ctx.fillStyle=p.hue==null?currentCar.accent:`hsl(${p.hue} 95% 70%)`;ctx.beginPath();ctx.arc(s.x,s.y,2+p.life*4,0,Math.PI*2);ctx.fill();});ctx.restore();};
   const drawWarp=(w,h,time,spaceT)=>{ctx.save();ctx.globalCompositeOperation='screen';ctx.globalAlpha=.12+spaceT*.18;ctx.translate(w/2,h/2);for(let i=0;i<24;i++){const a=i/24*Math.PI*2+time*.13,r1=70+(i%5)*18,r2=r1+80+Math.sin(time*2+i)*25;ctx.strokeStyle=i%2?'#7d5cff':'#50e8ff';ctx.lineWidth=2;ctx.beginPath();ctx.moveTo(Math.cos(a)*r1,Math.sin(a)*r1);ctx.lineTo(Math.cos(a)*r2,Math.sin(a)*r2);ctx.stroke();}ctx.restore();};
   const drawRainbow=(w,h)=>{ctx.save();ctx.globalAlpha=.28;['#ff4d72','#ffb13d','#fff36b','#47e184','#4cc9ff','#8a64ff'].forEach((c,i)=>{ctx.strokeStyle=c;ctx.lineWidth=5;ctx.beginPath();ctx.arc(w*.2,h*.74,110+i*7,Math.PI*1.08,Math.PI*1.75);ctx.stroke();});ctx.restore();};
@@ -637,10 +604,10 @@ main{position:relative;z-index:2;width:min(100%,760px);margin:0 auto;padding:8px
   const bindPress=(node,handler)=>{let pointerAt=-Infinity;node.addEventListener('pointerdown',e=>{if(e.button!=null&&e.button!==0)return;pointerAt=performance.now();prevent(e);handler(e);},{passive:false});node.addEventListener('click',e=>{if(performance.now()-pointerAt<650){prevent(e);return;}handler(e);});};
 
   bindPress(el.tap,handleTap);bindPress(el.boost,applyBoost);bindPress(el.gameScreen,e=>{if(e.target.closest('button'))return;handleTap();});bindPress(el.flightScreen,e=>{if(e.target.closest('button'))return;applyBoost();});el.canvas.addEventListener('pointerdown',e=>{prevent(e);applyBoost();},{passive:false});
-  $('playButton').addEventListener('click',startAttempt);$('howPlayButton').addEventListener('click',startAttempt);$('retryButton').addEventListener('click',startAttempt);
+  $('playButton').addEventListener('click',startAttempt);$('retryButton').addEventListener('click',startAttempt);
   $('gachaButton').addEventListener('click',showGacha);$('redrawButton').addEventListener('click',showGacha);el.draw.addEventListener('click',runGacha);el.drawTen.addEventListener('click',runTenGacha);el.useDrawn.addEventListener('click',startAttempt);
   $('garageButton').addEventListener('click',()=>{renderGarage();showScreen('garage');});$('resultGarageButton').addEventListener('click',()=>{renderGarage();showScreen('garage');});
-  $('recordsButton').addEventListener('click',()=>{renderRecords();showScreen('records');});$('howButton').addEventListener('click',()=>showScreen('how'));$('resultHomeButton').addEventListener('click',()=>{clearRun();phase='idle';setNavigationLock(false);showScreen('home');});
+  $('recordsButton').addEventListener('click',()=>{renderRecords();showScreen('records');});$('resultHomeButton').addEventListener('click',()=>{clearRun();phase='idle';setNavigationLock(false);showScreen('home');});
   document.querySelectorAll('[data-back="home"]').forEach(b=>b.addEventListener('click',()=>{if(navLocked)return;clearRun();phase='idle';showScreen('home');}));
   el.carGrid.addEventListener('click',e=>{const card=e.target.closest('[data-car-id]');if(!card)return;const car=CAR_BY_ID[card.dataset.carId],rec=getRecord(car.id);if(!rec.owned){showGacha();return;}currentCar=car;state.selected=car.id;save();renderGarage();renderHome();schedule(()=>showScreen('home'),90);});
   document.querySelectorAll('[data-record-tab]').forEach(b=>b.addEventListener('click',()=>setRecordTab(b.dataset.recordTab)));

diff --git a/boonjump/sw.js b/boonjump/sw.js
@@ -1,4 +1,4 @@
-const BUILD = "2026-08-06-ten-draw-tach-v3";
+const BUILD = "2026-08-06-wheel-tach-secret-v4";
 const STATIC_CACHE = `boonjump-static-${BUILD}`;
 const IMAGE_CACHE = `boonjump-images-${BUILD}`;
 const PRECACHE = [

diff --git a/boonjump/README.md b/boonjump/README.md
@@ -1,6 +1,6 @@
-# ブーンジャンプ V2.1.2
+# ブーンジャンプ V2.1.3
 
-Build: `2026-08-06-ten-draw-tach-v3`
+Build: `2026-08-06-wheel-tach-secret-v4`
 
 ## 3つの操作
 
@@ -27,3 +27,10 @@ Build: `2026-08-06-ten-draw-tach-v3`
 ## 公開
 
 この `boonjump` フォルダを既存リポジトリの同名フォルダへ上書きしてください。GitHub Pagesでは `./boonjump/` から起動します。
+
+
+## V2.1.3 修正
+- 全マシンのタイヤを車体画像へ正位置で合成
+- タコメーター針を見える上半円（低回転→14時方向）だけで移動
+- 遊び方画面を削除
+- SECRETは実画像「無敵のロケットアソブーン人間」を全画面で使用

diff --git a/boonjump/docs/validation.md b/boonjump/docs/validation.md
@@ -1,6 +1,6 @@
-# V2.1.2 Validation
+# V2.1.3 Validation
 
-Build: `2026-08-06-ten-draw-tach-v3`
+Build: `2026-08-06-wheel-tach-secret-v4`
 
 - JavaScript syntax: PASS
 - CARS control configuration unchanged from V2.1: PASS
@@ -16,3 +16,8 @@ Build: `2026-08-06-ten-draw-tach-v3`
 - Eight machines retain unique accelerator, turbo, and nitro control profiles: PASS
 - Machine-specific wheel placement corrections retained: PASS
 - Service Worker build cache updated: PASS
+
+- Wheel body composites: 7/7
+- Tach needle visible arc: -162deg to -18deg
+- How screen removed
+- SECRET real artwork used in DOM and canvas
